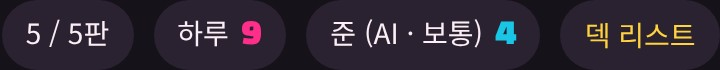
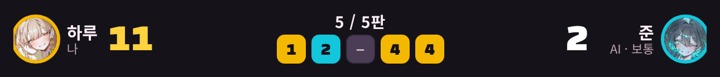
점수판(VS + 5판 기록)과 결과판(판 결과·최종 결과) 리디자인, 캐스트 능력 설명 간소화
Claude-Session: https://claude.ai/code/session_01NPydC4cgnycGE27ajFik3f

diff --git a/index.html b/index.html
@@ -216,6 +216,72 @@ button:focus-visible{outline:3px solid var(--c);outline-offset:2px}
   .gp{max-height:calc(100% - 64px)}
 }
 @media(prefers-reduced-motion:reduce){.gtrack{transition:none}}
+/* ---------- 점수판 ---------- */
+.top{display:grid;grid-template-columns:auto minmax(0,1fr) auto;gap:14px;align-items:center}
+.sb{display:grid;grid-template-columns:minmax(0,1fr) auto minmax(0,1fr);align-items:center;gap:12px;max-width:620px;width:100%;justify-self:center}
+.sbp{display:flex;align-items:center;gap:9px;min-width:0}
+.sbp.ai{justify-content:flex-end}
+.sba{width:38px;height:38px;border-radius:50%;object-fit:cover;flex:none;box-shadow:0 0 0 3px var(--cMe,var(--m))}
+.sbp.ai .sba{box-shadow:0 0 0 3px var(--cAi,var(--c))}
+.sbn{display:flex;flex-direction:column;line-height:1.15;min-width:0}
+.sbn span{font-weight:700;font-size:15px;white-space:nowrap;overflow:hidden;text-overflow:ellipsis}
+.sbn small{font-size:11px;color:#b9a6b3;white-space:nowrap}
+.sbp.ai .sbn{text-align:right}
+.sbp strong{font:400 34px/1 "Black Han Sans",sans-serif;min-width:1.2em;text-align:center;color:#fff;transition:transform .25s}
+.sb[data-lead=me] .sbp.me strong{color:var(--y)}.sb[data-lead=ai] .sbp.ai strong{color:var(--y)}
+.sbr{display:flex;flex-direction:column;align-items:center;gap:5px}
+.sbl{font:700 14px/1 "Noto Sans KR",sans-serif;color:#fbeef5;letter-spacing:.5px}
+.sbd{display:flex;gap:5px}
+.sbd i{width:26px;height:26px;border-radius:7px;display:grid;place-items:center;font:400 15px/1 "Black Han Sans",sans-serif;font-style:normal;background:#2a2230;color:#fff;border:1px solid #3a2f42}
+.sbd i.m{background:var(--cMe,var(--m));border-color:transparent;color:#16121a}
+.sbd i.a{background:var(--cAi,var(--c));border-color:transparent;color:#16121a}
+.sbd i.d{color:#fbeef5;background:#4a3d55}
+.sbd i.now{border:2px solid var(--y);animation:nowp 1.4s ease-in-out infinite}
+@keyframes nowp{50%{box-shadow:0 0 0 3px rgba(255,210,63,.35)}}
+/* ---------- 결과판 ---------- */
+.res{position:fixed;inset:0;z-index:6;display:none;place-items:center;padding:16px;background:rgba(10,6,12,.72);overflow:auto}
+.res.on{display:grid}
+.rbox{position:relative;width:min(560px,100%);border-radius:28px;padding:26px 24px 22px;text-align:center;background:var(--card);border:3px solid #16121a;box-shadow:8px 8px 0 #16121a;animation:rin .45s cubic-bezier(.2,1.3,.4,1)}
+@keyframes rin{from{transform:translateY(30px) scale(.92);opacity:0}}
+.rbox[data-res=win]{background:linear-gradient(170deg,#ff5ea8,#ff2e8a);color:#fff}
+.rbox[data-res=lose]{background:#16121a;color:#fbeef5;box-shadow:8px 8px 0 #19c6e6}
+.rbox[data-res=draw]{background:#19c6e6;color:#16121a}
+.rk{display:inline-block;padding:6px 14px;border-radius:999px;background:rgba(0,0,0,.22);font:700 13px/1 "Noto Sans KR",sans-serif;color:inherit}
+.rt{margin:12px 0 4px;font:400 clamp(48px,11vw,76px)/1 "Black Han Sans",sans-serif;color:#ffd23f;-webkit-text-stroke:6px #16121a;paint-order:stroke fill;text-shadow:0 .07em 0 #16121a;transform:rotate(-3deg)}
+.rbox[data-res=lose] .rt{color:#19c6e6;text-shadow:0 .07em 0 #ff2e8a}
+.rs{margin:6px 0 16px;font:700 16px/1.4 "Noto Sans KR",sans-serif;word-break:keep-all}
+.rvs{display:grid;grid-template-columns:minmax(0,1fr) auto minmax(0,1fr);align-items:center;gap:12px;margin:0 auto 16px;max-width:400px}
+.rp{margin:0;position:relative;transition:transform .3s,opacity .3s}
+.rp img{display:block;width:100%;aspect-ratio:1;object-fit:cover;object-position:center 22%;border-radius:18px;border:3px solid #16121a;background:#fff}
+.rp figcaption{display:flex;justify-content:space-between;align-items:center;gap:6px;margin-top:8px;font:700 14px/1 "Noto Sans KR",sans-serif}
+.rp figcaption b{font:400 38px/1 "Black Han Sans",sans-serif}
+.rbox.fin .rp:not(.won){opacity:.55;transform:scale(.92)}
+.rp.won img{box-shadow:0 0 0 4px #ffd23f}
+.rp.won::after{content:"WIN";position:absolute;top:-12px;left:50%;transform:translateX(-50%) rotate(-6deg);padding:3px 12px;border-radius:999px;background:#ffd23f;color:#16121a;border:2px solid #16121a;font:400 16px/1.2 "Black Han Sans",sans-serif}
+.rcol{font:400 40px/1 "Black Han Sans",sans-serif;opacity:.7}
+.rrounds{list-style:none;margin:0 auto;padding:0;display:grid;grid-template-columns:repeat(5,minmax(0,1fr));gap:6px;max-width:440px}
+.rrounds li{display:flex;flex-direction:column;align-items:center;gap:4px;padding:9px 2px;border-radius:12px;background:rgba(0,0,0,.16);font-size:13px;min-height:96px}
+.rrounds li span{font-weight:700;opacity:.8}
+.rrounds li img{width:32px;height:32px;border-radius:50%;object-fit:cover;border:2px solid #16121a}
+.rrounds li em{font-style:normal;font-weight:700;font-size:13px;white-space:nowrap;overflow:hidden;text-overflow:ellipsis;max-width:100%}
+.rrounds li b{font:400 22px/1 "Black Han Sans",sans-serif}
+.rrounds li i{font-style:normal;font-size:11px;font-weight:700;padding:1px 6px;border-radius:999px;background:#16121a;color:#ffd23f}
+.rrounds li.m{background:rgba(255,255,255,.88);color:#16121a}
+.rrounds li.a{background:rgba(22,18,26,.75);color:#fff}
+.rbox[data-res=lose] .rrounds li.a{background:#2a2230}
+.rrounds li.e{opacity:.45}
+.rrounds li.last{outline:3px solid #ffd23f;outline-offset:-1px}
+.rnote{margin:12px 0 0;font:700 14px/1.4 "Noto Sans KR",sans-serif;opacity:.9}.rnote:empty{display:none}
+.rgo{margin-top:18px;min-height:50px;min-width:180px;border:3px solid #16121a;border-radius:999px;background:#ffd23f;color:#16121a;font:700 17px/1 "Noto Sans KR",sans-serif;box-shadow:4px 4px 0 #16121a;cursor:pointer}
+@media(max-width:600px){
+  .top{grid-template-columns:minmax(0,1fr) auto;gap:8px;padding:8px 10px}
+  .sb{gap:6px}.sbn{display:none}.sba{width:30px;height:30px}.sbp{gap:6px}.sbp strong{font-size:26px}
+  .sbd{gap:4px}.sbd i{width:21px;height:21px;font-size:13px;border-radius:6px}.sbl{font-size:12px}
+  .deckbtn{padding:6px 10px;font-size:12px}
+  .rbox{padding:22px 16px 18px;border-radius:22px}
+  .rvs{gap:8px}.rp figcaption b{font-size:30px}
+  .rrounds{gap:5px}.rrounds li{min-height:88px;font-size:12px}.rrounds li em{font-size:12px}.rrounds li b{font-size:19px}.rrounds li img{width:28px;height:28px}.rrounds li i{font-size:10px;padding:1px 4px}
+}
 .pc.foe{opacity:.45;pointer-events:none}.pback{border:0;background:none;color:var(--sub);font:inherit;text-decoration:underline;cursor:pointer;padding:8px 0}
 .pc img{display:block;width:100%;aspect-ratio:4/3;object-fit:cover;object-position:center 22%}
 .pc .pi{display:block;padding:12px 14px 16px}
@@ -301,12 +367,12 @@ button:focus-visible{outline:3px solid var(--c);outline-offset:2px}
 <body>
 <header class="top">
   <h1>31 <b>버스트</b></h1>
-  <div class="score">
-    <span class="pill" id="roundPill">1 / 5판</span>
-    <span class="pill me"><span id="nMe">아이리</span><strong id="sMe">0</strong></span>
-    <span class="pill ai"><span id="nAi">미코 (AI)</span><strong id="sAi">0</strong></span>
-    <button class="pill deckbtn" id="deckBtn" aria-haspopup="dialog">덱 리스트</button>
+  <div class="sb" id="sb">
+    <div class="sbp me"><img class="sba" id="sbMeAv" src="img/iri_av.jpg" alt=""><span class="sbn"><span id="nMe">아이리</span><small>나</small></span><strong id="sMe">0</strong></div>
+    <div class="sbr"><span class="sbl" id="roundPill">1 / 5판</span><span class="sbd" id="sbDots"></span></div>
+    <div class="sbp ai"><strong id="sAi">0</strong><span class="sbn"><span id="nAi">미코</span><small id="nAiTag">AI</small></span><img class="sba" id="sbAiAv" src="img/miko_av.jpg" alt=""></div>
   </div>
+  <button class="pill deckbtn" id="deckBtn" aria-haspopup="dialog">덱 리스트</button>
 </header>
 
 <main class="wrap">
@@ -436,6 +502,19 @@ button:focus-visible{outline:3px solid var(--c);outline-offset:2px}
 <div class="fx" id="fx" aria-hidden="true"></div>
 <button class="tltab" id="tlTab" type="button" aria-label="타임라인 열기"><span>타임라인</span><b class="bd" id="tlBadge"></b></button>
 <div class="tlback" id="tlBack"></div>
+<div class="res" id="res" role="dialog" aria-modal="true" aria-labelledby="rTitle"><div class="rbox" id="rBox">
+  <span class="rk" id="rKick">1판 결과</span>
+  <h2 class="rt" id="rTitle">저스트!</h2>
+  <p class="rs" id="rSub"></p>
+  <div class="rvs">
+    <figure class="rp" id="rMe"><img id="rMeImg" src="img/iri_selfie.jpg" alt=""><figcaption><span id="rMeName">아이리</span><b id="rMeSc">0</b></figcaption></figure>
+    <span class="rcol">:</span>
+    <figure class="rp" id="rAi"><img id="rAiImg" src="img/miko_selfie.jpg" alt=""><figcaption><span id="rAiName">미코</span><b id="rAiSc">0</b></figcaption></figure>
+  </div>
+  <ol class="rrounds" id="rRounds"></ol>
+  <p class="rnote" id="rNote"></p>
+  <button type="button" class="rgo" id="rGo">다음 판</button>
+</div></div>
 <div class="modal" id="modal" role="dialog" aria-modal="true"><div class="box"><h3 id="mTitle"></h3><p id="mText"></p><div class="opts" id="mOpts"></div></div></div>
 
 <script>
@@ -497,16 +576,16 @@ const MINA=[
 ];
 const CASTS={
  iri:{name:'아이리',handle:'@iri_cafe',type:'M · 갸루',deck:[...SHARED,...IRI],photoDraw:1,back:['#ff2e8a','#c41d68'],
-  abil:'<b>셀카 장인</b> 사진 포스트를 내면 1장 뽑는다. 턴마다 한 번',
+  abil:'<b>셀카 장인</b> 사진을 포스트하면 한 장 뽑는다',
   style:'사진 포스트로 손을 계속 돌리고, 숫자를 유연하게 맞춘다'},
  miko:{name:'미코',handle:'@miko_occult',type:'K · 오컬트',deck:[...SHARED,...MIKO],bustPlus:1,bustDraw:2,back:['#7a4cc4','#4b2a85'],
-  abil:'<b>흉조</b> 버스트가 나면 판돈이 1 더 오르고, 미코가 2장 뽑는다',
+  abil:'<b>흉조</b> 버스트하면 판돈을 더 올리고, 두 장 뽑는다',
   style:'상대 손을 끊고, 판이 터지길 기다린다'},
  haru:{name:'하루',handle:'@haru_ne',type:'Y · 누님',deck:[...SHARED,...HARU],adjust:1,abName:'어른의 여유',back:['#f5b800','#b98a00'],
-  abil:'<b>어른의 여유</b> 판마다 한 번, 낸 카드 숫자를 1 올린다',
+  abil:'<b>어른의 여유</b> 낸 카드 숫자를 1 올린다',
   style:'판을 천천히 끌고 가다가 마지막 한 칸을 맞춘다'},
  mina:{name:'준',handle:'@jun_mvp',type:'C · 톰보이',deck:[...SHARED,...MINA],adjust:-1,abName:'숨 고르기',back:['#12c6dc','#0a8fa3'],
-  abil:'<b>숨 고르기</b> 판마다 한 번, 낸 카드 숫자를 1 내린다',
+  abil:'<b>숨 고르기</b> 낸 카드 숫자를 1 내린다',
   style:'큰 숫자로 몰아치다가 한 칸 넘친 걸 붙잡는다'}
 };
 let SEAT=['iri','miko'],DECK=[CASTS.iri.deck,CASTS.miko.deck];
@@ -766,7 +845,7 @@ const sleep=ms=>new Promise(r=>setTimeout(r,ms));
 const shuffle=a=>{for(let i=a.length-1;i>0;i--){const j=Math.random()*(i+1)|0;[a[i],a[j]]=[a[j],a[i]]}return a};
 const ME=0,AI=1,NAME=['아이리','미코'];
 
-const G={round:0,score:[0,0],wins:[0,0],starter:ME,cur:ME,gauge:0,target:31,stake:1,passes:0,busy:false,over:false,P:[]};
+const G={round:0,score:[0,0],wins:[0,0],starter:ME,cur:ME,gauge:0,target:31,stake:1,passes:0,busy:false,over:false,P:[],hist:[],busts:0};
 
 /* ---------- 온라인 2인 (PeerJS, 방장이 판정) ---------- */
 const NET={on:false,role:null,peer:null,conn:null,code:'',hostCast:null,guestCast:null,lastEl:null,last:'',aid:0,wait:{},
@@ -776,11 +855,11 @@ const NET={on:false,role:null,peer:null,conn:null,code:'',hostCast:null,guestCas
 const PH={id:'?',name:'?',v:0,text:''};
 function snap(){
   const mask=(P,hide)=>({...P,deck:P.deck.length,hand:hide?P.hand.length:P.hand,used:[],known:hide?[]:P.known});
-  return{round:G.round,score:G.score,wins:G.wins,starter:G.starter,cur:G.cur,gauge:G.gauge,target:G.target,stake:G.stake,busy:G.busy,over:G.over,
+  return{hist:G.hist,busts:G.busts,round:G.round,score:G.score,wins:G.wins,starter:G.starter,cur:G.cur,gauge:G.gauge,target:G.target,stake:G.stake,busy:G.busy,over:G.over,
     P:G.P.length?[mask(G.P[0],true),mask(G.P[1],false)]:[]};
 }
 function applySnap(s){
-  Object.assign(G,{round:s.round,score:[s.score[1],s.score[0]],wins:[s.wins[1],s.wins[0]],starter:1-s.starter,cur:1-s.cur,gauge:s.gauge,target:s.target,stake:s.stake,busy:s.busy,over:s.over});
+  Object.assign(G,{hist:(s.hist||[]).map(h=>({...h,w:h.w===null?null:1-h.w})),busts:s.busts||0,round:s.round,score:[s.score[1],s.score[0]],wins:[s.wins[1],s.wins[0]],starter:1-s.starter,cur:1-s.cur,gauge:s.gauge,target:s.target,stake:s.stake,busy:s.busy,over:s.over});
   const fix=P=>({...P,deck:Array(P.deck).fill(null),hand:typeof P.hand==='number'?Array(P.hand).fill(PH):P.hand});
   if(s.P.length)G.P=[fix(s.P[1]),fix(s.P[0])];
   render();
@@ -827,7 +906,9 @@ function netLost(){if(!NET.on)return;netReset(true);$('modal').classList.remove(
 function seatSetup(){
   const[me,op]=SEAT;DECK=[CASTS[me].deck,CASTS[op].deck];NAME[ME]=CASTS[me].name;NAME[AI]=CASTS[op].name;
   const tag=NET.on?' (상대)':' (AI · '+{easy:'쉬움',normal:'보통',hard:'어려움'}[DIFF]+')';
-  $('nMe').textContent=NAME[ME];$('nAi').textContent=NAME[AI]+tag;$('aiWho').textContent=NAME[AI]+(NET.on?' (상대)':' (AI)');
+  $('nMe').textContent=NAME[ME];$('nAi').textContent=NAME[AI];$('nAiTag').textContent=NET.on?'상대':'AI · '+{easy:'쉬움',normal:'보통',hard:'어려움'}[DIFF];
+  $('sbMeAv').src=`img/${me}_av.jpg`;$('sbAiAv').src=`img/${op}_av.jpg`;
+  const rs=document.documentElement.style;rs.setProperty('--cMe',CASTS[me].back[0]);rs.setProperty('--cAi',CASTS[op].back[0]);$('aiWho').textContent=NAME[AI]+(NET.on?' (상대)':' (AI)');
   $('meAbil').innerHTML=CASTS[me].abil;$('aiAbil').innerHTML=CASTS[op].abil;
   document.documentElement.style.setProperty('--backA',CASTS[op].back[0]);document.documentElement.style.setProperty('--backB',CASTS[op].back[1]);
   $('pick').classList.remove('on');
@@ -860,8 +941,7 @@ function onNet(m){
     case'bustfx':bustFx(NET.lastEl);break;
     case'log':log(m.msg,flipCls(m.cls),1);break;
     case'ask':ask(m.title,m.text,m.labels.map((l,k)=>({label:l,value:k}))).then(k=>NET.send({t:'ans',id:m.id,k}));break;
-    case'notice':ask(m.title,m.text,[{label:'확인',value:1}]);break;
-    case'end':NET.hostCast=null;NET.guestCast=null;ask(m.title,m.text,[{label:'캐스트 다시 고르기',value:1}]).then(showPick);break;
+    case'result':{const w=m.w===null?null:1-m.w;if(m.final){NET.hostCast=null;NET.guestCast=null;showResult(true,w).then(showPick)}else showResult(false,w,true);break}
   }
 }
 
@@ -894,8 +974,12 @@ const anyPlayable=p=>G.P[p].hand.some(c=>playable(p,c));
 
 function render(){
   NET.state();
-  $('roundPill').textContent=`${Math.max(G.round,1)} / 5판`;
+  $('roundPill').textContent=G.over?'최종':`${Math.max(G.round,1)} / 5판`;
   $('sMe').textContent=G.score[ME];$('sAi').textContent=G.score[AI];
+  $('sbDots').innerHTML=Array.from({length:5},(_,k)=>{const h=G.hist[k];
+    if(h)return h.w===null?'<i class="d" title="무승부">–</i>':`<i class="${h.w===ME?'m':'a'}" title="${NAME[h.w]} +${h.pts}">${h.pts}</i>`;
+    return `<i class="${k===G.round-1&&!G.over?'now':''}"></i>`}).join('');
+  {const lead=G.score[ME]-G.score[AI];$('sb').dataset.lead=lead>0?'me':lead<0?'ai':''}
   $('gNum').textContent=G.gauge;$('gTarget').textContent='목표 '+G.target;
   const base=G.target-31,frac=Math.min(1,Math.max(0,(G.gauge-base)/(G.target-base)));
   $('arc').style.strokeDashoffset=326.7*(1-frac);
@@ -943,10 +1027,39 @@ function ask(title,text,opts){
   });
 }
 
-function newGame(){G.round=0;G.score=[0,0];G.wins=[0,0];G.over=false;G.starter=Math.random()<.5?ME:AI;newRound()}
+function showResult(fin,w,wait){
+  return new Promise(res=>{
+    const[a,b]=[G.score[ME],G.score[AI]],box=$('rBox');
+    $('rMeImg').src=`img/${SEAT[ME]}_selfie.jpg`;$('rAiImg').src=`img/${SEAT[AI]}_selfie.jpg`;
+    $('rMeName').textContent=NAME[ME];$('rAiName').textContent=NAME[AI];$('rMeSc').textContent=a;$('rAiSc').textContent=b;
+    let win=null,title,sub='',note='',kick;
+    if(fin){
+      kick='최종 결과';
+      if(a!==b)win=a>b?ME:AI;else if(G.wins[ME]!==G.wins[AI]){win=G.wins[ME]>G.wins[AI]?ME:AI;note=`동점! 저스트 ${G.wins[ME]} : ${G.wins[AI]}로 승부가 갈렸다`}
+      title=win===null?'무승부':win===ME?'승리!':'패배…';
+      sub=win===null?'완벽하게 비겼다':`${NAME[win]}의 타임라인이 이겼다`;
+    }else{
+      const h=G.hist[G.hist.length-1];kick=`${G.round}판 결과`;win=w;
+      title=w===null?'무승부':'저스트!';
+      sub=w===null?'둘 다 낼 카드가 없어서 이 판은 비겼다':`${NAME[w]} +${h.pts}점${h.busts?` · 버스트 ${h.busts}번 묻고 더블`:''}`;
+      if(wait)note='상대가 다음 판을 열 때까지 기다려줘';
+    }
+    $('rKick').textContent=kick;$('rTitle').textContent=title;$('rSub').textContent=sub;$('rNote').textContent=note;
+    box.dataset.res=win===null?'draw':win===ME?'win':'lose';box.classList.toggle('fin',fin);
+    $('rMe').classList.toggle('won',win===ME);$('rAi').classList.toggle('won',win===AI);
+    $('rRounds').innerHTML=Array.from({length:5},(_,k)=>{const h=G.hist[k];
+      if(!h)return `<li class="e"><span>${k+1}판</span><em>—</em></li>`;
+      const c=h.w===null?'d':h.w===ME?'m':'a',who=h.w===null?'무승부':NAME[h.w];
+      return `<li class="${c}${k===G.hist.length-1&&!fin?' last':''}"><span>${k+1}판</span>${h.w===null?'':`<img src="img/${SEAT[h.w]}_av.jpg" alt="">`}<em>${who}</em><b>${h.w===null?'':'+'+h.pts}</b>${h.busts?`<i>버스트×${h.busts}</i>`:''}</li>`}).join('');
+    $('rGo').textContent=fin?'다시 하기':wait?'확인':'다음 판';
+    $('res').classList.add('on');$('rGo').focus();
+    $('rGo').onclick=()=>{$('res').classList.remove('on');res()};
+  });
+}
+function newGame(){G.round=0;G.score=[0,0];G.wins=[0,0];G.hist=[];G.over=false;G.starter=Math.random()<.5?ME:AI;newRound()}
 function newRound(){
   G.round++;G.P=[freshPlayer(ME),freshPlayer(AI)];draw(ME,5);draw(AI,5);
-  G.gauge=0;G.target=31;G.stake=1;G.passes=0;G.cur=G.starter;$('feed').innerHTML='';NET.ev({t:'clear'});
+  G.gauge=0;G.target=31;G.stake=1;G.passes=0;G.busts=0;G.cur=G.starter;$('feed').innerHTML='';NET.ev({t:'clear'});
   log(`— ${G.round}판 시작. ${NAME[G.cur]} 선공 —`);startTurn();
 }
 
@@ -976,7 +1089,7 @@ async function play(p,idx,choice,adj=0){
 
   if(ng===G.target&&!card.nofinish){bigHit(G.target);await sleep(2600);G.busy=false;return endRound(p)}
   if(ng>G.target||(ng===G.target&&card.nofinish)){   // 저스트 불가 카드로 목표에 딱 맞으면 버스트
-    const mult=card.triple?3:2,plus=SEAT.filter(k=>CASTS[k].bustPlus).length;G.stake=G.stake*mult+plus;G.target+=10;
+    const mult=card.triple?3:2,plus=SEAT.filter(k=>CASTS[k].bustPlus).length;G.stake=G.stake*mult+plus;G.target+=10;G.busts++;
     const drawers=[ME,AI].filter(q=>CASTS[SEAT[q]].bustDraw);drawers.forEach(q=>draw(q,CASTS[SEAT[q]].bustDraw));
     bustFx(postEl);render();bigBust(mult);await sleep(2300);
     log(`버스트! 묻고 ${mult===3?'트리플':'더블'}.${plus?' 흉조로 +1,':''} 판돈 ${G.stake}점, 목표 ${G.target}.${drawers.map(q=>` ${NAME[q]} 2장 뽑음`).join('')}`);
@@ -1031,21 +1144,15 @@ async function play(p,idx,choice,adj=0){
 }
 
 async function endRound(w){
-  if(w!==null){G.score[w]+=G.stake;G.wins[w]++;log(`저스트! ${NAME[w]} ${G.round}판 승리, +${G.stake}점`)}
+  const pts=G.stake;
+  if(w!==null){G.score[w]+=pts;G.wins[w]++;log(`저스트! ${NAME[w]} ${G.round}판 승리, +${pts}점`)}
+  G.hist.push({w,pts:w===null?0:pts,busts:G.busts});
   G.starter=1-G.starter;   // 선후공은 판마다 번갈아
+  const fin=G.round>=5;if(fin)G.over=true;
   render();
-  if(G.round>=5){
-    G.over=true;render();
-    let res;const[a,b]=G.score;
-    if(a!==b)res=a>b?`${NAME[ME]} 승리!`:`${NAME[AI]} 승리…`;
-    else res=G.wins[0]===G.wins[1]?'완전 무승부':(G.wins[0]>G.wins[1]?`동점, 판 수로 ${NAME[ME]} 승리`:`동점, 판 수로 ${NAME[AI]} 승리`);
-    NET.ev({t:'end',title:res,text:`최종 ${a} : ${b} (이긴 판 ${G.wins[0]} : ${G.wins[1]})`});
-    await ask(res,`최종 ${a} : ${b} (이긴 판 ${G.wins[0]} : ${G.wins[1]})`,[{label:'캐스트 다시 고르기',value:1}]);
-    return showPick();
-  }
-  const msg=w===null?'무승부':`${NAME[w]} 승리, +${G.stake}점`;
-  NET.ev({t:'notice',title:`${G.round}판 끝`,text:`${msg}. 상대가 다음 판을 열 거야.`});
-  await ask(`${G.round}판 끝`,`${msg}. 현재 ${G.score[0]} : ${G.score[1]}`,[{label:'다음 판',value:1}]);
+  NET.ev({t:'result',final:fin,w});
+  await showResult(fin,w);
+  if(fin)return showPick();
   newRound();
 }
 
